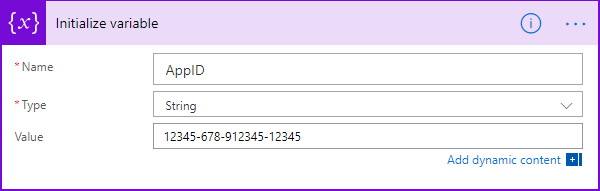
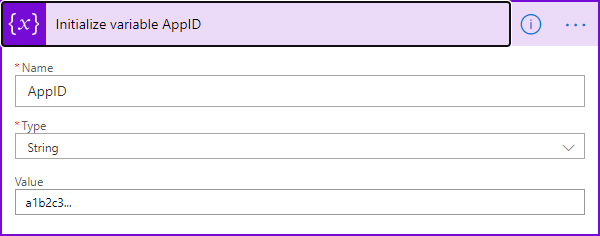
API-provisioning-flow updated with integrated OAuth method

diff --git a/API-provisioning-flow.md b/API-provisioning-flow.md
@@ -6,13 +6,11 @@ The security concept is to get a token for the own tenant first. Then send that 
 
 As prerequesits, you need to have the app data from the step before, similar as here.
 
-
 | Key | Value |
 |:----|:------|
 | AppID | 91eef8ad...
 | AppSecret | /95=BRZ...
 | TenantID | 21e6f8d3...
-
 
 This document describes the basic steps when using the GT365 Provisioning API from Microsoft Flow.
 
@@ -21,78 +19,31 @@ Follow the steps to provision a new Office 365 Group or Team.
 - Create a new Flow to test the GT365 API.
 - The following screenshot shows an overview of the actions.
 [![link](./images/api-provision-flow-1.png)](./images/api-provision-flow-1.png "Click to enlarge")
-- Create a trigger to test your Flow. This can be a HTTP call, a newly added item to a SharePoint list or any other trigger. Here, we use a SPO list. Once a new item is added, the Flow starts.
+- **Trigger:** Create a trigger to test your Flow. This can be a HTTP call, a newly added item to a SharePoint list or any other trigger. Here, we use a SPO list. Once a new item is added, the Flow starts.
 [![link](./images/api-provision-flow-2.png)](./images/api-provision-flow-2.png "Click to enlarge")
-- Add a new action "Initialize Variable", Use "AuthHeader" as name and leave the value empty.
-[![link](./images/api-provision-flow-3.png)](./images/api-provision-flow-3.png "Click to enlarge")
-- Add a new action "Initialize Variable", Use "AppID" as name and add your AppID from AAD as value.
+- **AppID:** Add a new action "Initialize Variable", Use "AppID" as name and add your AppID from AAD as value.
 [![link](./images/api-provision-flow-4.png)](./images/api-provision-flow-4.png "Click to enlarge")
-- Add a new action "Compose".
+- **AppSecret:** Add a new action "Initialize Variable", Use "AppSecret" as name and add your AppSecret from AAD as value.
+[![link](./images/api-provision-flow-3.png)](./images/api-provision-flow-3.png "Click to enlarge")
+- **TenantID:** Add a new action "Initialize Variable", Use "TenantID" as name and add your TenantID from AAD as value.
 [![link](./images/api-provision-flow-5.png)](./images/api-provision-flow-5.png "Click to enlarge")
-- As "Inputs" value, add an expression with you App Secret, similiar as here. This ensures that any special characters in the secret are properly encoded. You can do that for all values if required.
+- **Tip:** If one of the values contains special characters, you can use a formula that ensures that any special characters are properly encoded as follows:
 ~~~
 encodeUriComponent('my[secret?code/12:34')
 ~~~
 [![link](./images/api-provision-flow-6.png)](./images/api-provision-flow-6.png "Click to enlarge")
-
-- Add a new action "HTTP" and configure it with an URI like here and add the variables from above. This step gets a token from Office 365 with the app data.
-~~~
-https://login.microsoftonline.com/variables('TenantID')/oauth2/v2.0/token?
-
-Content-Type application/x-www-form-urlencoded
-
-grant_type=client_credentials
-&scope=https%3A%2F%2Fgraph.microsoft.com%2F.default
-&client_id=@{variables('AppID')}
-&client_secret=@{outputs('Compose_Secret')}
-~~~~
-[![link](./images/api-provision-flow-8.png)](./images/api-provision-flow-8.png "Click to enlarge")
-
-- Add a new action "Parse JSON" and add the Body from the GetToken action as "Content".
-- Paste the following definition into the "Schema". This splits the keys and values from the previous step into usable properties.
-~~~
-{
-    "type": "object",
-    "properties": {
-        "token_type": {
-            "type": "string"
-        },
-        "expires_in": {
-            "type": "integer"
-        },
-        "ext_expires_in": {
-            "type": "integer"
-        },
-        "access_token": {
-            "type": "string"
-        }
-    }
-}
-~~~
-
-[![link](./images/api-provision-flow-9.png)](./images/api-provision-flow-9.png "Click to enlarge")
-
-- Add a new action "Set Variable" and use "AuthHeader" as name. Add the string "Bearer" with a space and add the output from "Parse JSON" value.
-~~~
-Bearer @{body('Parse_JSON')?['access_token']}
-~~~
-[![link](./images/api-provision-flow-10.png)](./images/api-provision-flow-10.png "Click to enlarge")
-
-- Add a new action "HTTP" and configure it with an URI like here:
-- Create a HTTP POST action to the endpoint and add the Authorization and Content-Type as here:
+- Add a new action "HTTP" and configure it using a HTTP POST action to the endpoint and add Content-Type and the body as here:
 ~~~
 https://gt365api.atwork-it.com/api/ProvisionGroup
-
-Authorization @variables('AuthHeader')
 
 Content-Type application/x-www-form-urlencoded
 ~~~
 
 [![link](./images/api-provision-flow-11.png)](./images/api-provision-flow-11.png "Click to enlarge")
-
 - Then, add the required parameters as here (filled from the SPO list or from other parameters).
 ~~~
 {
+  
   "displayName": "@{triggerBody()?['Title']}",
   "mailNickname": "@{triggerBody()?['Title']}",
   "description": "@{triggerBody()?['Title']}",
@@ -106,8 +57,17 @@ Content-Type application/x-www-form-urlencoded
   "visibility": "@{triggerBody()?['Visibility']?['Value']}"
 }
 ~~~
-
-- Done. Continue with other actions in your Flow.
+- In the HTTP action, open the "Open advanced options".
+- Configure the advanced options as here:
+[![link](./images/api-provision-flow-10.png)](./images/api-provision-flow-10.png "Click to enlarge")
+- As Authentication select **Active Directory OAuth**
+- In the Tenant field, add the **@{variables('TenantID')}**
+- As Audience, add **https://graph.microsoft.com/**
+- In the Client ID field, add the **@{variables('AppID')}**
+- Select the Credential Type **Secret**
+- In the Secret field, add the **@{variables('AppSecret')}**
+- Done. Continue with other actions in your Flow or add a Terminate action.
+- Save the flow.
 
 ## Test it
 
@@ -124,22 +84,17 @@ As Body, the new Group *id* and the *displayName* is returned.
 
 ## Integrate the Provisionging Flow in your Approval Workflow
 
-A complete approval workflow could look like here.
+A complete approval workflow could look like here. 
 
 [![link](./images/api-provision-flow-15.png)](./images/api-provision-flow-15.png "Click to enlarge")
 
-If an error occured, the right branch is executed and the Flow terminates.
+If an error occured, the right branch is executed and the Flow terminates. Otherwise, if approved by the manager, the left condition branch provisions a group.
 
 [![link](./images/api-provision-flow-16.png)](./images/api-provision-flow-16.png "Click to enlarge")
-
-The condition branch provisions a group, if approved.
-
-[![link](./images/api-provision-flow-17.png)](./images/api-provision-flow-17.png "Click to enlarge")
 
 ## Adapt it as needed
 
 This sample shows the process how to use the GT365 API from Microsoft Flow or Microsoft Azure Logic Apps.
-
 
 **Quick navigation**
 

diff --git a/API-provisioning.md b/API-provisioning.md
@@ -43,7 +43,7 @@ Use this sample payload in the Body and adapt it as needed.
                    "raulr@M365x193702.onmicrosoft.com"],    
     "createTeam": false,
     "visibility": "Private",
-    "classification":"General"
+    "classification": "General"
 }
 ~~~~
 
